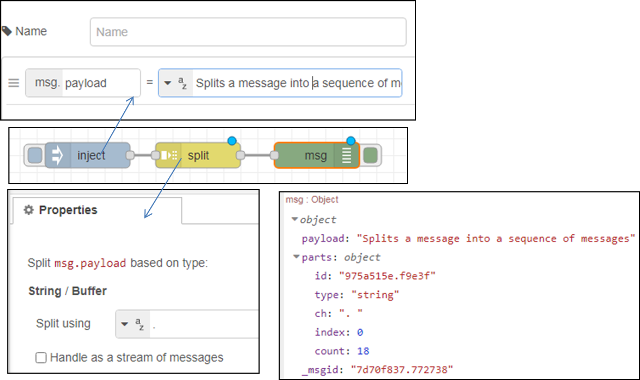
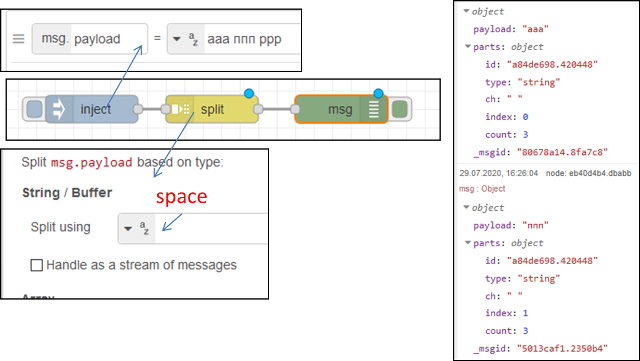
1

diff --git a/base/1_6.md b/base/1_6.md
@@ -103,7 +103,7 @@
 
 Кожне повідомлення в послідовності має властивість `msg.parts`. Це об\'єкт, який містить інформацію про те, як повідомлення входить у послідовність. Він має такі властивості:
 
-`msg.parts.id` -- унікальний ідентифікатор в  послідовності 
+`msg.parts.id` -- унікальний ідентифікатор всієї послідовності 
 
 `msg.parts.index` -- позиція повідомлення в межах послідовності 
 
@@ -133,7 +133,7 @@
 - `key` - для розділення об'єкту, ключ або властивість, з якого було створено це повідомлення. Вузол може бути налаштований також для копіювання цього значення в інші властивості повідомлення, такі як `msg.topic`. 
 - `len` -- довжина кожного повідомлення при розділенні з використанням фіксованого значення довжини
 
-На наступному прикладі показано, як використовуючи роздільник `. ` робляться перетворення тексту в кілька речень.  
+На наступному прикладі показано, як використовуючи роздільник пробіл (` ` ) робляться перетворення речення в слова.  
 
 ![](media/split_exmpl.png)
 
